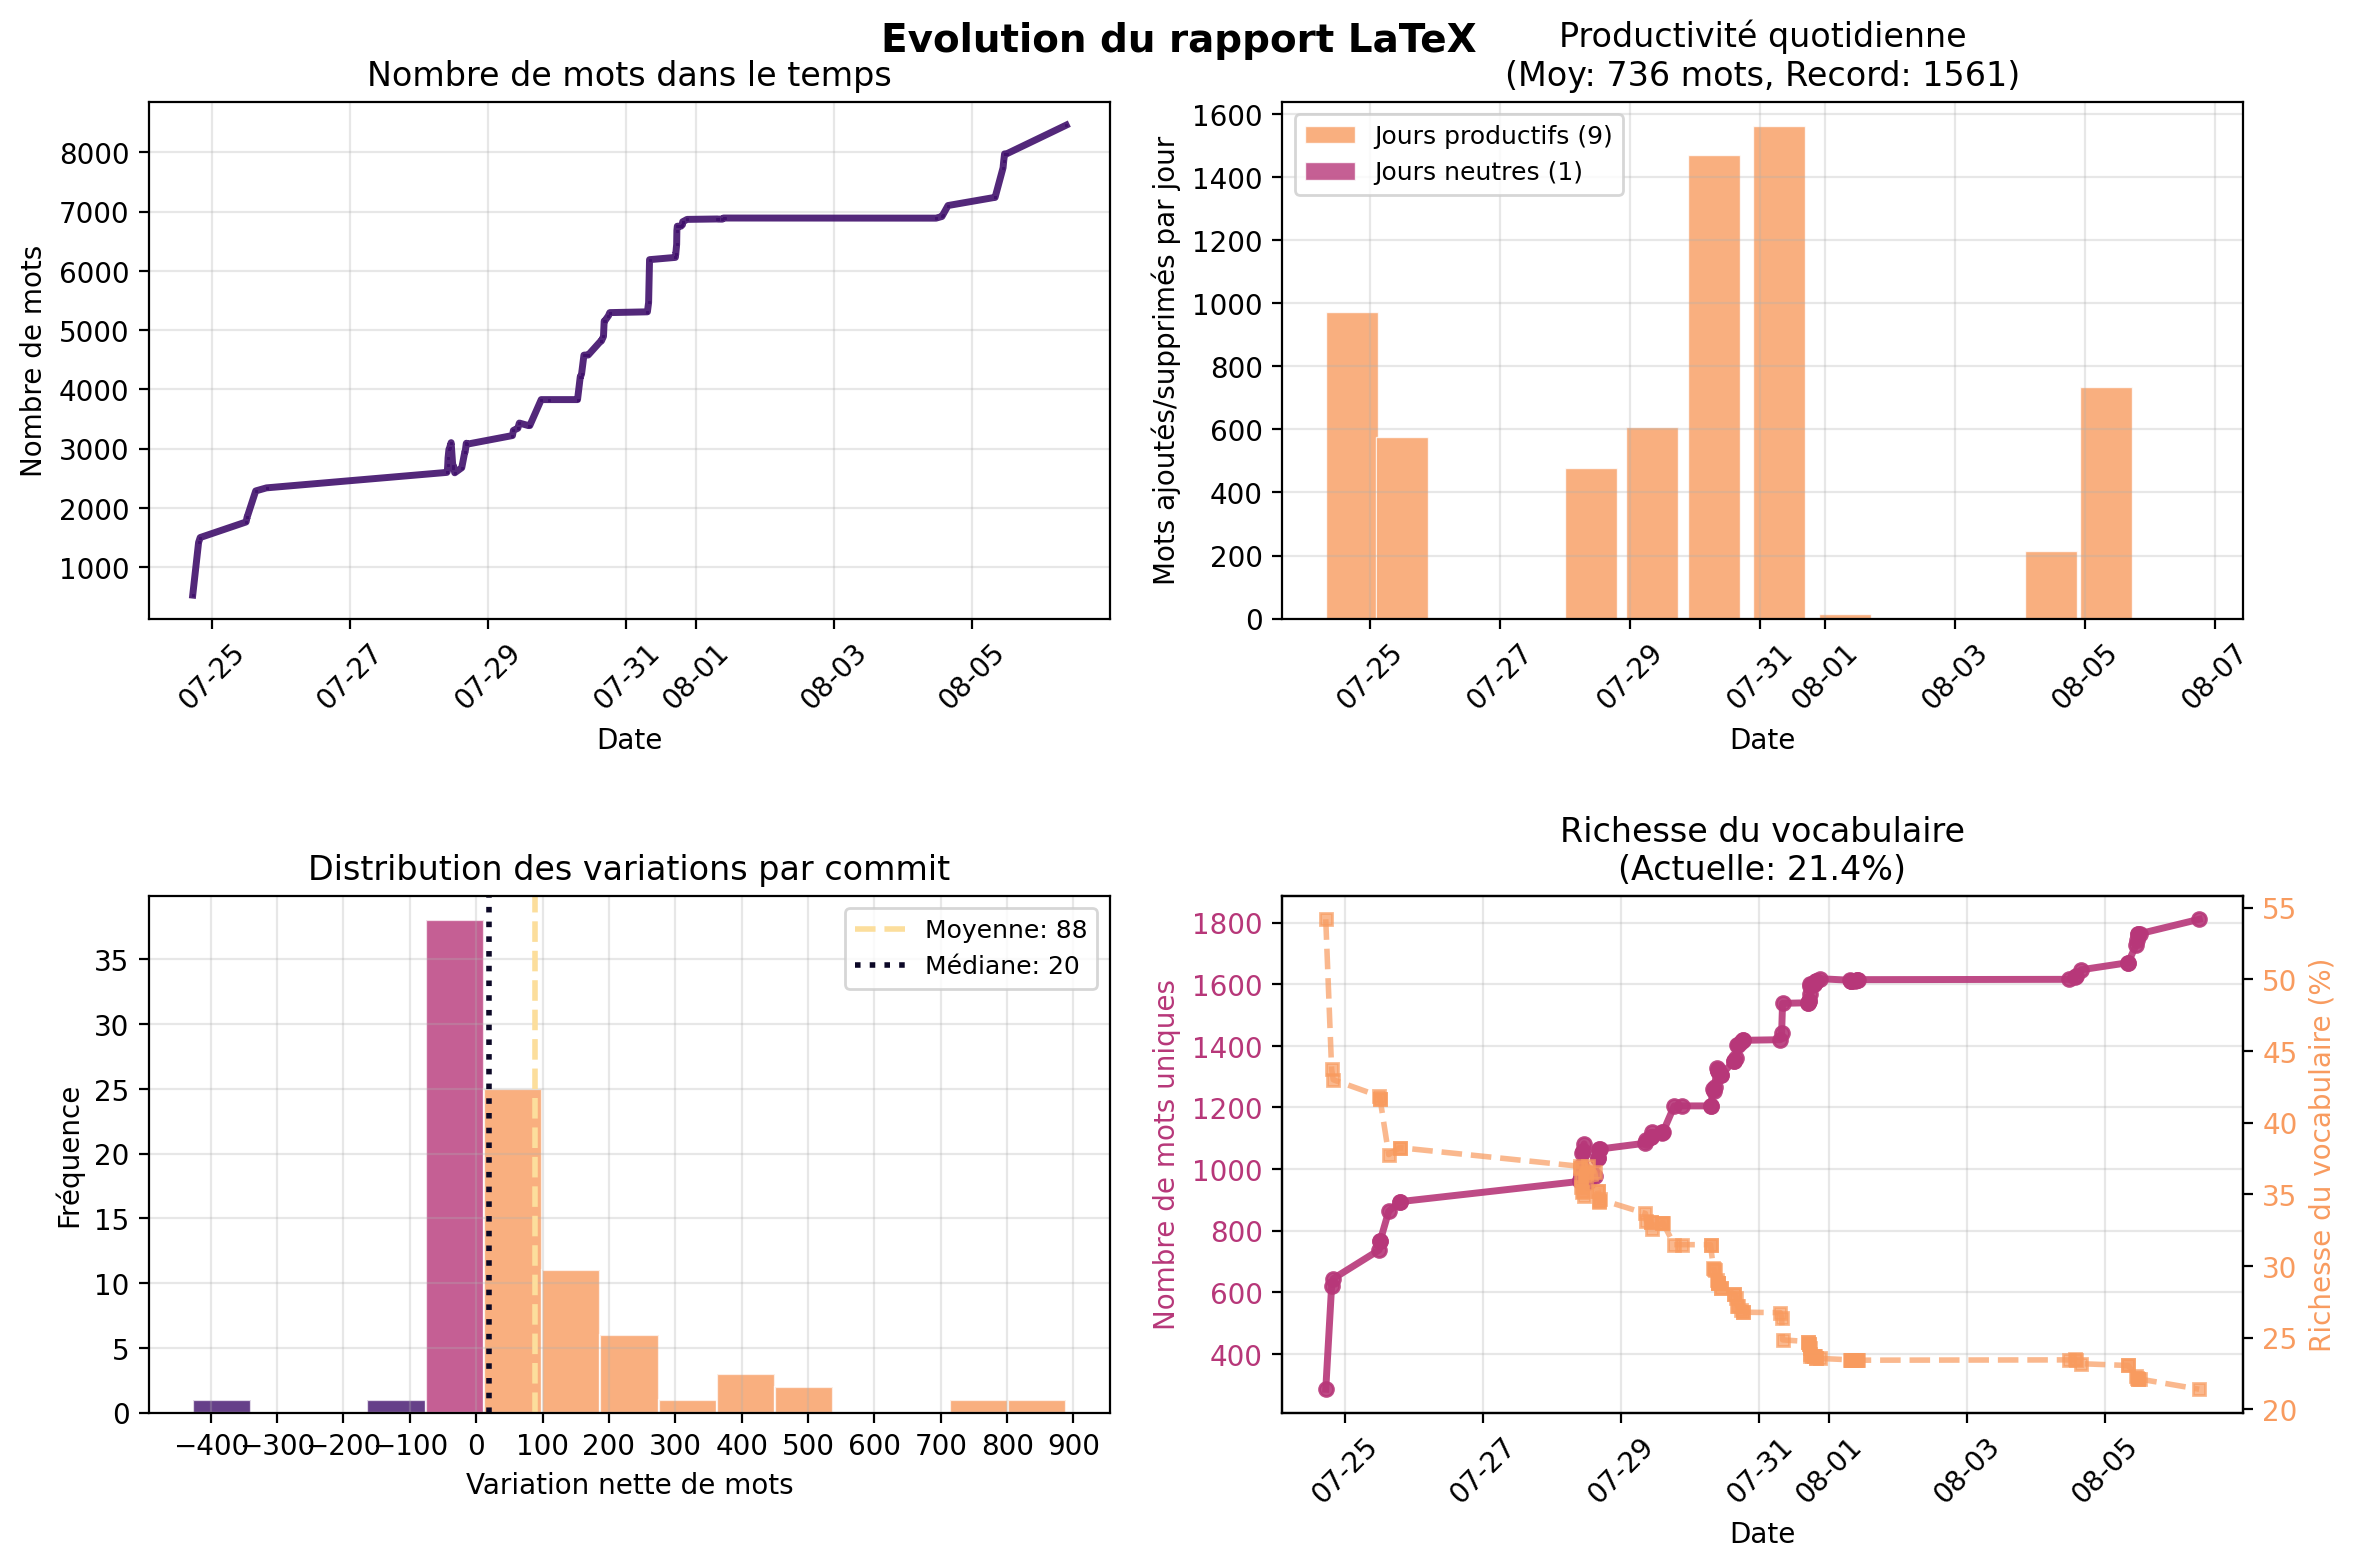
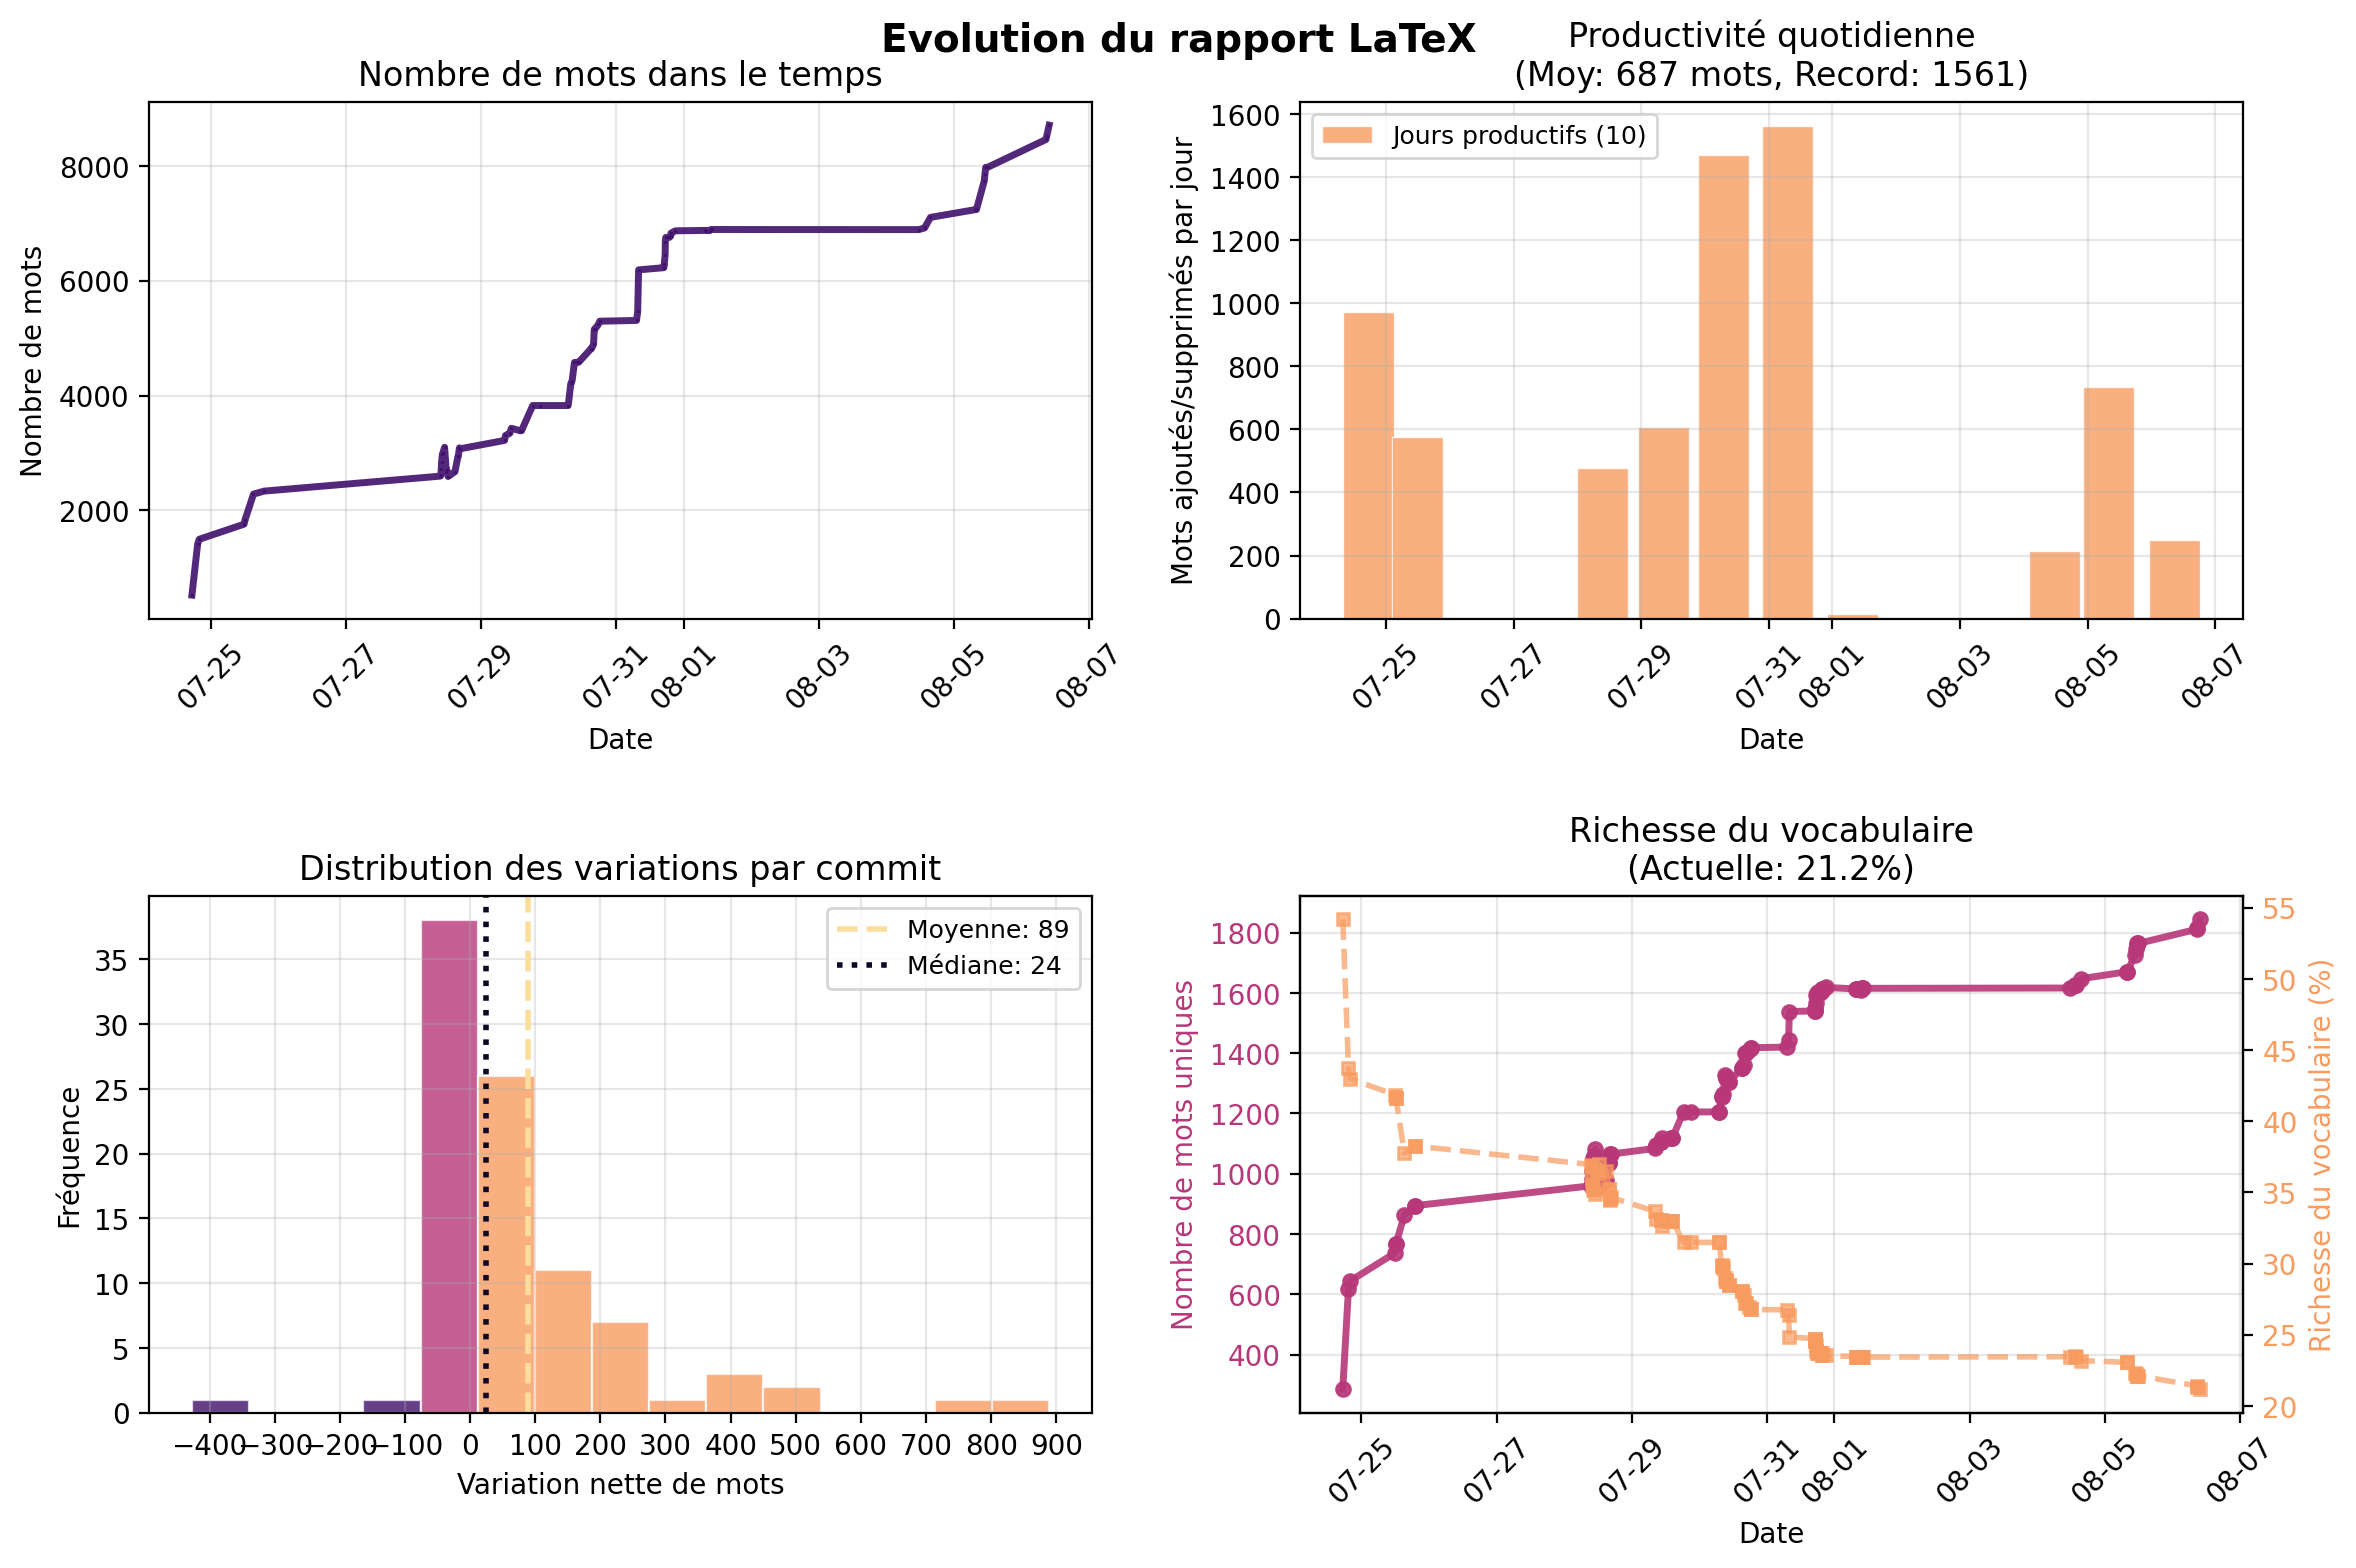
transfo. multiEchelle 8 -> algo 1 -> général

diff --git a/chapitres/3_travail/2_technique/2_multi_res_adaptative.tex b/chapitres/3_travail/2_technique/2_multi_res_adaptative.tex
@@ -155,9 +155,21 @@ Enfin l'impact de la multi-résolution sur la qualité des solutions numériques
             l'intuition physique pose son véto puisque les échelles supérieurs sont de grandes magnitudes et que cela présage que dans 
             les pas de temps a venir les échelles seront nécessaires à la fidèle capture des phénomènes physiques simulés. Par exemple cela peut signifier qu'un front
             d'onde est en train d'arriver dans les zone étudiée, il faut donc que la simulation puisse en capter toute la richesse.
-\subsubsection{Algorithmes de simunlation numérique}
-    \paragraph{}
-    \paragraph{}
+\subsubsection{Algorithmes de simulation numérique}
+    \paragraph{Algorithme général}
+            L'intégration de la MRA un algorithme de simulation physique se fait de la manière suivante: 
+            tous les $n_{MRA}$ pas de temps (éventuellement être à chaque pas de temps), 
+            la solution physique est adaptée selon le procédé explicité ci-dessus. Les détails précédemment omis
+            devenant nécessaires sont obtenus grâce au prédicteur. Puis la simulation se poursuite à partir de cette grille de calcul adapté.
+            L'économie de mémoire se fait puisque tous les détails ne sont pas stockés et l'économie de calculs puisque moins de cellules sont mises en 
+            jeu lors du déroulement de l’algorithme de simulation.\par
+            Par exemple, en dimension une, si une zone est adapté avec un niveau de détail de niveau 5, la densité de cellule sur lequel il faut réaliser des est de $2^5$
+            et la densité mémoire est de $\sum_{j=0}^5 2^j$. Si le niveau le plus fin de la grille est par exemple 9, il y a un gain computationnel théorique de l'ordre de 
+            $2^{9-5}=16$ et en terme de mémoire une économie de l'ordre de $\frac{\sum_{j=0}^5}{2^8} > 10$. Ce gain est exponentiel avec la dimension du problème.
+    \paragraph{Le cas volumes finis}
+            Il faut détailler ce qui signifie \textit{poursuivre la simulation sur la grille de calcul adaptée} dans le cadre des volumes finis.
+            
+    \paragraph{Le débat sur la reconstruction}
 \subsubsection{Impact sur les solutions}
     \paragraph{}
     \paragraph{}
